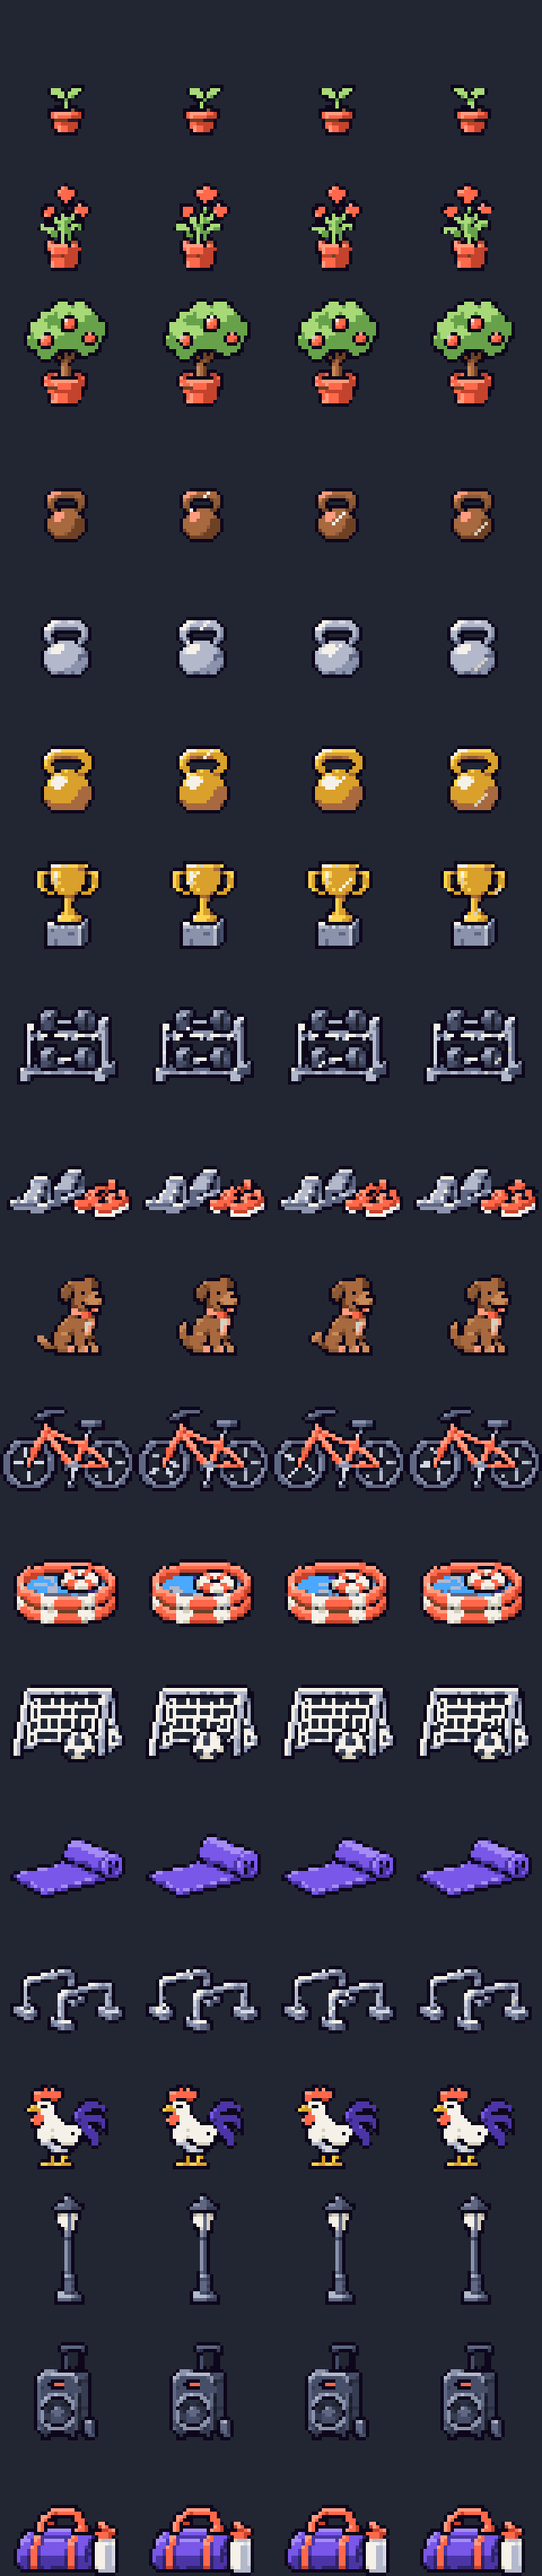
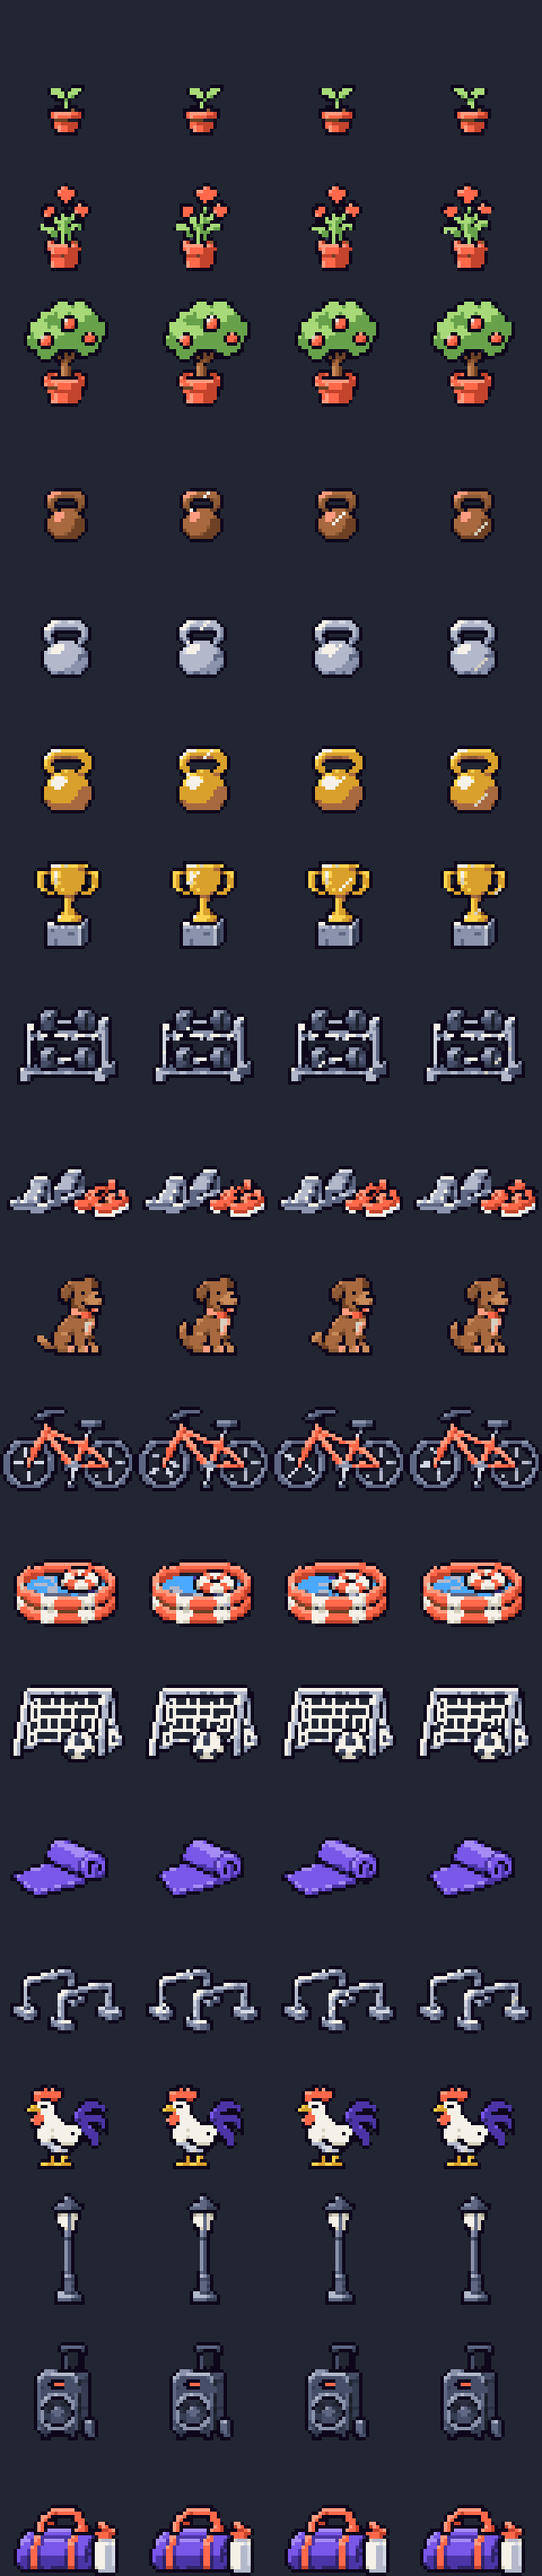
feat(jogo): tapete de ioga enrola e desenrola (Enfeite Zen)
Tira nova do ChatGPT. O quadro 1 veio desenhado de outro jeito, então o
build.py ganha ORDEM_DA_TIRA e o tapete usa os quadros 2, 3, 4, 3.

diff --git a/Wrexercise/webapp/src/features/jogo/enfeitesNaPraca.ts b/Wrexercise/webapp/src/features/jogo/enfeitesNaPraca.ts
@@ -21,7 +21,7 @@ const atlas = {
   ciclista: { linha: 10, esquerda: 0, largura: 40, altura: 25, ms: 160 },
   peixe: { linha: 11, esquerda: 4, largura: 31, altura: 20, ms: 260 },
   boleiro: { linha: 12, esquerda: 3, largura: 34, altura: 23, ms: 240 },
-  zen: { linha: 13, esquerda: 3, largura: 34, altura: 19, ms: 360 },
+  zen: { linha: 13, esquerda: 3, largura: 29, altura: 18, ms: 360 },
   pesodocorpo: { linha: 14, esquerda: 3, largura: 34, altura: 20, ms: 260 },
   madrugador: { linha: 15, esquerda: 7, largura: 25, altura: 25, ms: 240 },
   noturno: { linha: 16, esquerda: 15, largura: 10, altura: 33, ms: 140 },

diff --git a/pixel-art/enfeites/build.py b/pixel-art/enfeites/build.py
@@ -87,6 +87,12 @@ BRILHO = {
 }
 GIZ, GIZ_SOMBRA = "#f5f1e8", "#d6d0c0"
 
+# A ordem dos quadros da tira (0 a 3), quando o quadro 1 do ChatGPT não combina com os outros: o
+# tapete veio com o quadro 1 desenhado de outro jeito, então o ciclo usa 2, 3, 4, 3.
+ORDEM_DA_TIRA = {
+    "zen": [1, 2, 3, 2],
+}
+
 (AQUI / "saida").mkdir(exist_ok=True)
 (AQUI / "preview").mkdir(exist_ok=True)
 
@@ -135,6 +141,8 @@ def main():
         elif BASE.exists() and tira.exists():
             altura = base.getbbox()[3] - base.getbbox()[1]
             quadros = recortar_grade(tira, 2, 2, QUADROS, LADO, cores, altura_do_primeiro=altura)
+            if conquista in ORDEM_DA_TIRA:
+                quadros = [quadros[i] for i in ORDEM_DA_TIRA[conquista]]
             # O quadro 1 da tira fica onde o objeto está na base: a tira só acrescenta o movimento.
             dx = base.getbbox()[0] - quadros[0].getbbox()[0]
             dy = base.getbbox()[3] - quadros[0].getbbox()[3]

diff --git a/pixel-art/enfeites/prompts-chatgpt.md b/pixel-art/enfeites/prompts-chatgpt.md
@@ -127,7 +127,7 @@ pixels) and loops smoothly from frame 4 back to frame 1.
 | 11 | a parked bicycle | the front wheel turns slowly: the spokes rotate a little each frame (1, 2, 3, 4), and the frame and the rear wheel stay still. |
 | 12 | a kiddie pool with a floating buoy | the water shimmers and the buoy bobs: the light ripples on the water move each frame, and the buoy is 1 px lower in frames 2 and 3. |
 | 13 | a mini football goal with a ball | the ball rocks and the net ripples: 1 rest, 2 ball rolls 1 px left, 3 rest, 4 ball rolls 1 px right; the net bulges 1 px in frames 2 and 4. |
-| 14 | a half-unrolled yoga mat | the rolled end breathes: 1 rest, 2 the roll is 1 px taller, 3 rest, 4 the flat end's corner lifts 1 px. |
+| 14 | a half-unrolled yoga mat | the mat rolls up and unrolls slightly, like a breath: 1 rest; 2 the roll moves 1 px toward the flat end, which gets 1 px shorter, and the roll turns a little (the spiral at its end rotates); 3 the roll moves 2 px toward the flat end, the flat part 2 px shorter; 4 back to 1 px, as in frame 2. The roll keeps its size; only the flat part gets shorter and longer. |
 | 15 | a pair of parallettes | a glint runs along the bars: 1 none, 2 left bar, 3 right bar, 4 none. |
 | 16 | a standing rooster | the head bobs: 1 neutral, 2 head forward 1 px and down 1 px, 3 neutral, 4 head up with the beak open and the tail feathers fluffed. |
 | 17 | a street lamp post | frame 1 lamp OFF exactly as attached; frames 2, 3 and 4 the glass is lit yellow #ffd34e with a chalk core, and the brightness flickers slightly (2 full, 3 one row dimmer #d9a02b, 4 full). The pole never changes. |
@@ -145,6 +145,7 @@ pixels) and loops smoothly from frame 4 back to frame 1.
 
 1. Folha-base: separa as manchas que não são magenta e junta as que quase se encostam (o bloco de largada e os tênis) num objeto. Lê os objetos em ordem de leitura (linhas pela altura, da esquerda para a direita), e não pela grade: o ChatGPT às vezes põe 6 objetos numa linha. Se não achar exatamente 19, para com erro. Reduz **todas com a mesma escala**, pela cor mais comum de cada bloco, para que a maior ocupe os 40 px; assim os objetos mantêm as proporções reais. Cada objeto fica centrado e apoiado na base da célula.
 2. Tira: divide em 2×2 e reduz os 4 quadros com a escala que deixa o quadro 1 com a altura do objeto na base. Cada quadro mantém a posição relativa ao quadro 1 (um rabo que balança não arrasta o corpo), e o quadro 1 é alinhado ao objeto da base.
+   Se o quadro 1 da tira não combinar com os outros, ponha o Enfeite em `ORDEM_DA_TIRA` com a ordem dos quadros a usar (o tapete usa 2, 3, 4, 3).
    Se a parte que devia ficar parada (um vaso, uma base) tremer entre os quadros, ponha o Enfeite em `PARADO_EMBAIXO` no `build.py`: as linhas de baixo de todos os quadros passam a ser as do quadro 1.
 3. Troca cada cor pela mais próxima da paleta `wrexercise` (e das cores do script); o magenta vira transparente.
 4. Grava `saida/enfeites.png`, copia para `webapp/public/enfeites.png` e grava `preview/folha-4x.png` e `preview/animado.gif`.
